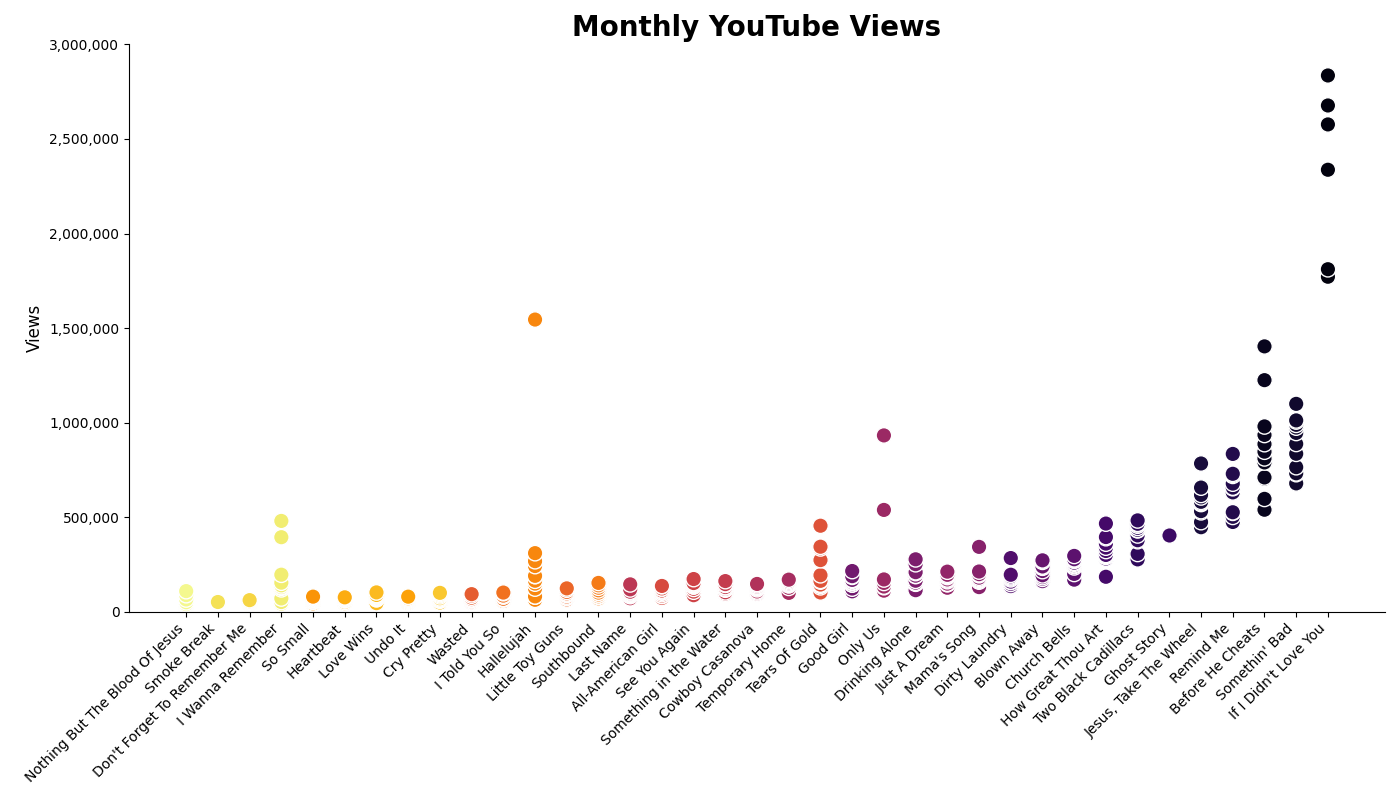
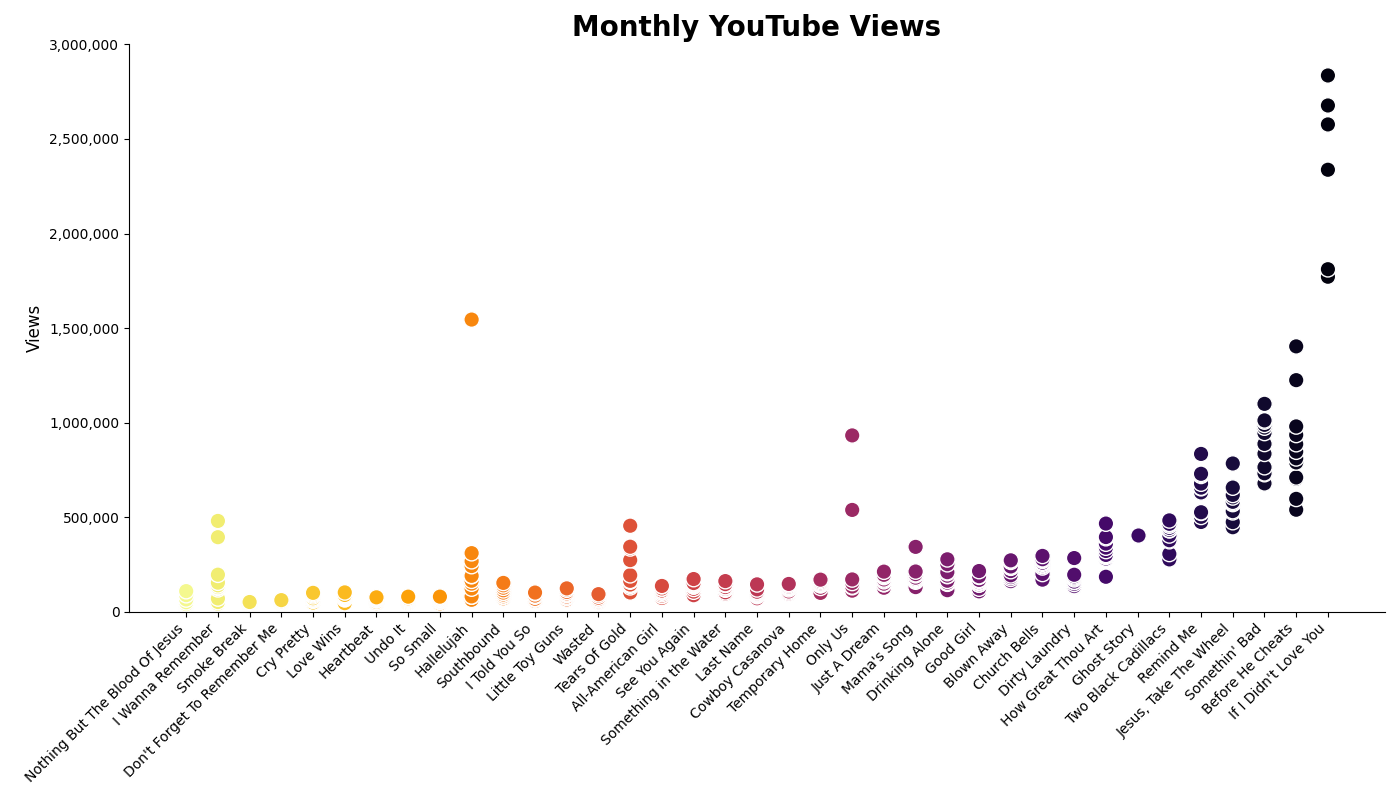
updated code and graph for monthly views for all months

diff --git a/YouTube Views.py b/YouTube Views.py
@@ -462,10 +462,10 @@ plt.show()
 
 " Plot - Views per Month for Each Month "
 # Color
-monthly_views_sort = monthly_views.sort_values(['Date', 'Monthly Views'], ascending=False)
+monthly_views_sort = monthly_views.sort_values(['Date', 'Monthly Views'], ascending=[False, True]).copy()
 unique_videos_monthly = monthly_views_sort['Video'].unique()
 color_values_monthly = sns.color_palette('inferno', len(unique_videos_monthly))
-color_map_monthly = pd.DataFrame(zip(unique_videos_monthly, color_values_monthly), columns=['Video', 'Color'])
+color_map_monthly = pd.DataFrame(zip(unique_videos_latest_month, color_values_monthly), columns=['Video', 'Color'])
 monthly_views_plot = monthly_views.merge(color_map_monthly, how='left', left_on=['Video'], right_on=['Video']).sort_values(
     'Monthly Views', ascending=True)
 
@@ -475,7 +475,7 @@ monthly_views_plot = monthly_views.merge(color_map_monthly, how='left', left_on=
 plt.style.use('default')  # Set style
 fig, ax = plt.subplots(figsize=(14, 8))  # Set figure
 
-ordered_videos = monthly_views_plot['Video']
+ordered_videos = monthly_views_sort['Video']
 grouped = monthly_views_plot.groupby('Video')
 
 for video in ordered_videos:
